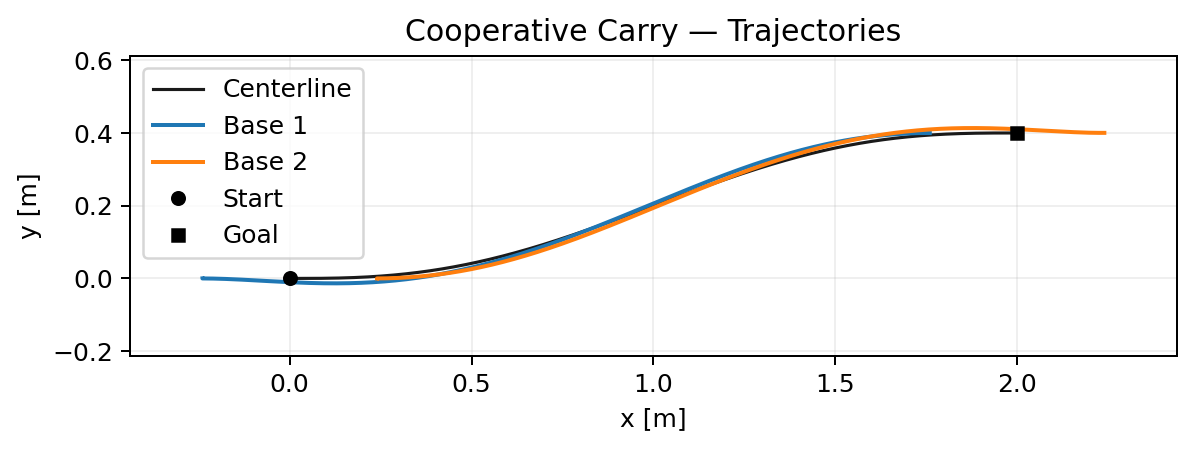
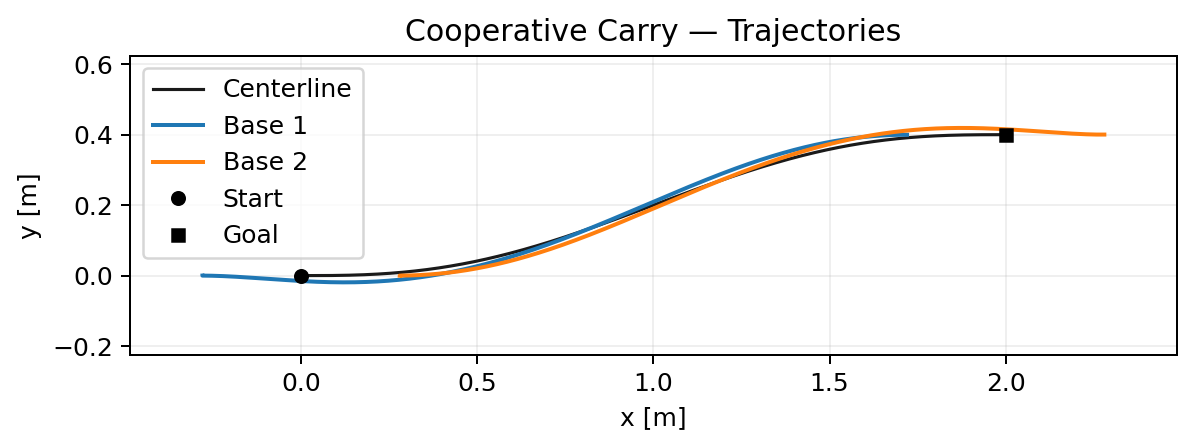
fixes

diff --git a/src/mariam_navigation/scripts/coop_traj_node.py b/src/mariam_navigation/scripts/coop_traj_node.py
@@ -199,8 +199,8 @@ class CooperativeTrajectoryNode(Node):
             quat = transform.transform.rotation
             _, _, theta = tf_transformations.euler_from_quaternion([quat.x, quat.y, quat.z, quat.w])
 
-            # if frame_id == "payload":
-            #     return [0, 0, 0]
+            if frame_id == "payload":
+                return [0, 0, 0]
 
             return [x, y, theta]
             
@@ -221,8 +221,9 @@ class CooperativeTrajectoryNode(Node):
             )
 
             # Log starting conditions
-            self.get_logger().info(f"Payload starting conditions: {self.get_transform('payload')}")
+            payload_start_pose = self.get_transform('payload')
             base1_start_pose, base2_start_pose = traj(self.trajectory_params, t=0, T=self.trajectory_duration)
+            self.get_logger().info(f"Payload starting conditions: {payload_start_pose[0]:.3f}, {payload_start_pose[1]:.3f}, {payload_start_pose[2]:.3f}")
             self.get_logger().info(f"Base 1 expected conditions: [{base1_start_pose[0]:.3f}, {base1_start_pose[1]:.3f}, {base1_start_pose[2]:.3f}]")
             self.get_logger().info(f"Base 1 actual conditions: [{self.base1_pose[0]:.3f}, {self.base1_pose[1]:.3f}, {self.base1_pose[2]:.3f}]")
             self.get_logger().info(f"Base 2 expected conditions: [{base2_start_pose[0]:.3f}, {base2_start_pose[1]:.3f}, {base2_start_pose[2]:.3f}]")
@@ -304,8 +305,8 @@ class CooperativeTrajectoryNode(Node):
             v2_final = v2_reversed + v2_corrected
 
             # Publish the corrected velocities
-            self.publish_cmd_vel(self.base1_cmd_pub, v1)
-            self.publish_cmd_vel(self.base2_cmd_pub, v2_reversed)
+            self.publish_cmd_vel(self.base1_cmd_pub, v1_final)
+            self.publish_cmd_vel(self.base2_cmd_pub, v2_final)
             
             # Store poses and time for next iteration
             self.last_poses['base1'] = b1.copy()

diff --git a/src/mariam_navigation/scripts/coop_traj_api.py b/src/mariam_navigation/scripts/coop_traj_api.py
@@ -64,7 +64,7 @@ def smooth_signal(z, win):
 class BoxParams:
     L: float = 0.16
     W: float = 0.11
-    a: float = 0.16
+    a: float = 0.2
 
 @dataclass
 class SmoothParams:
